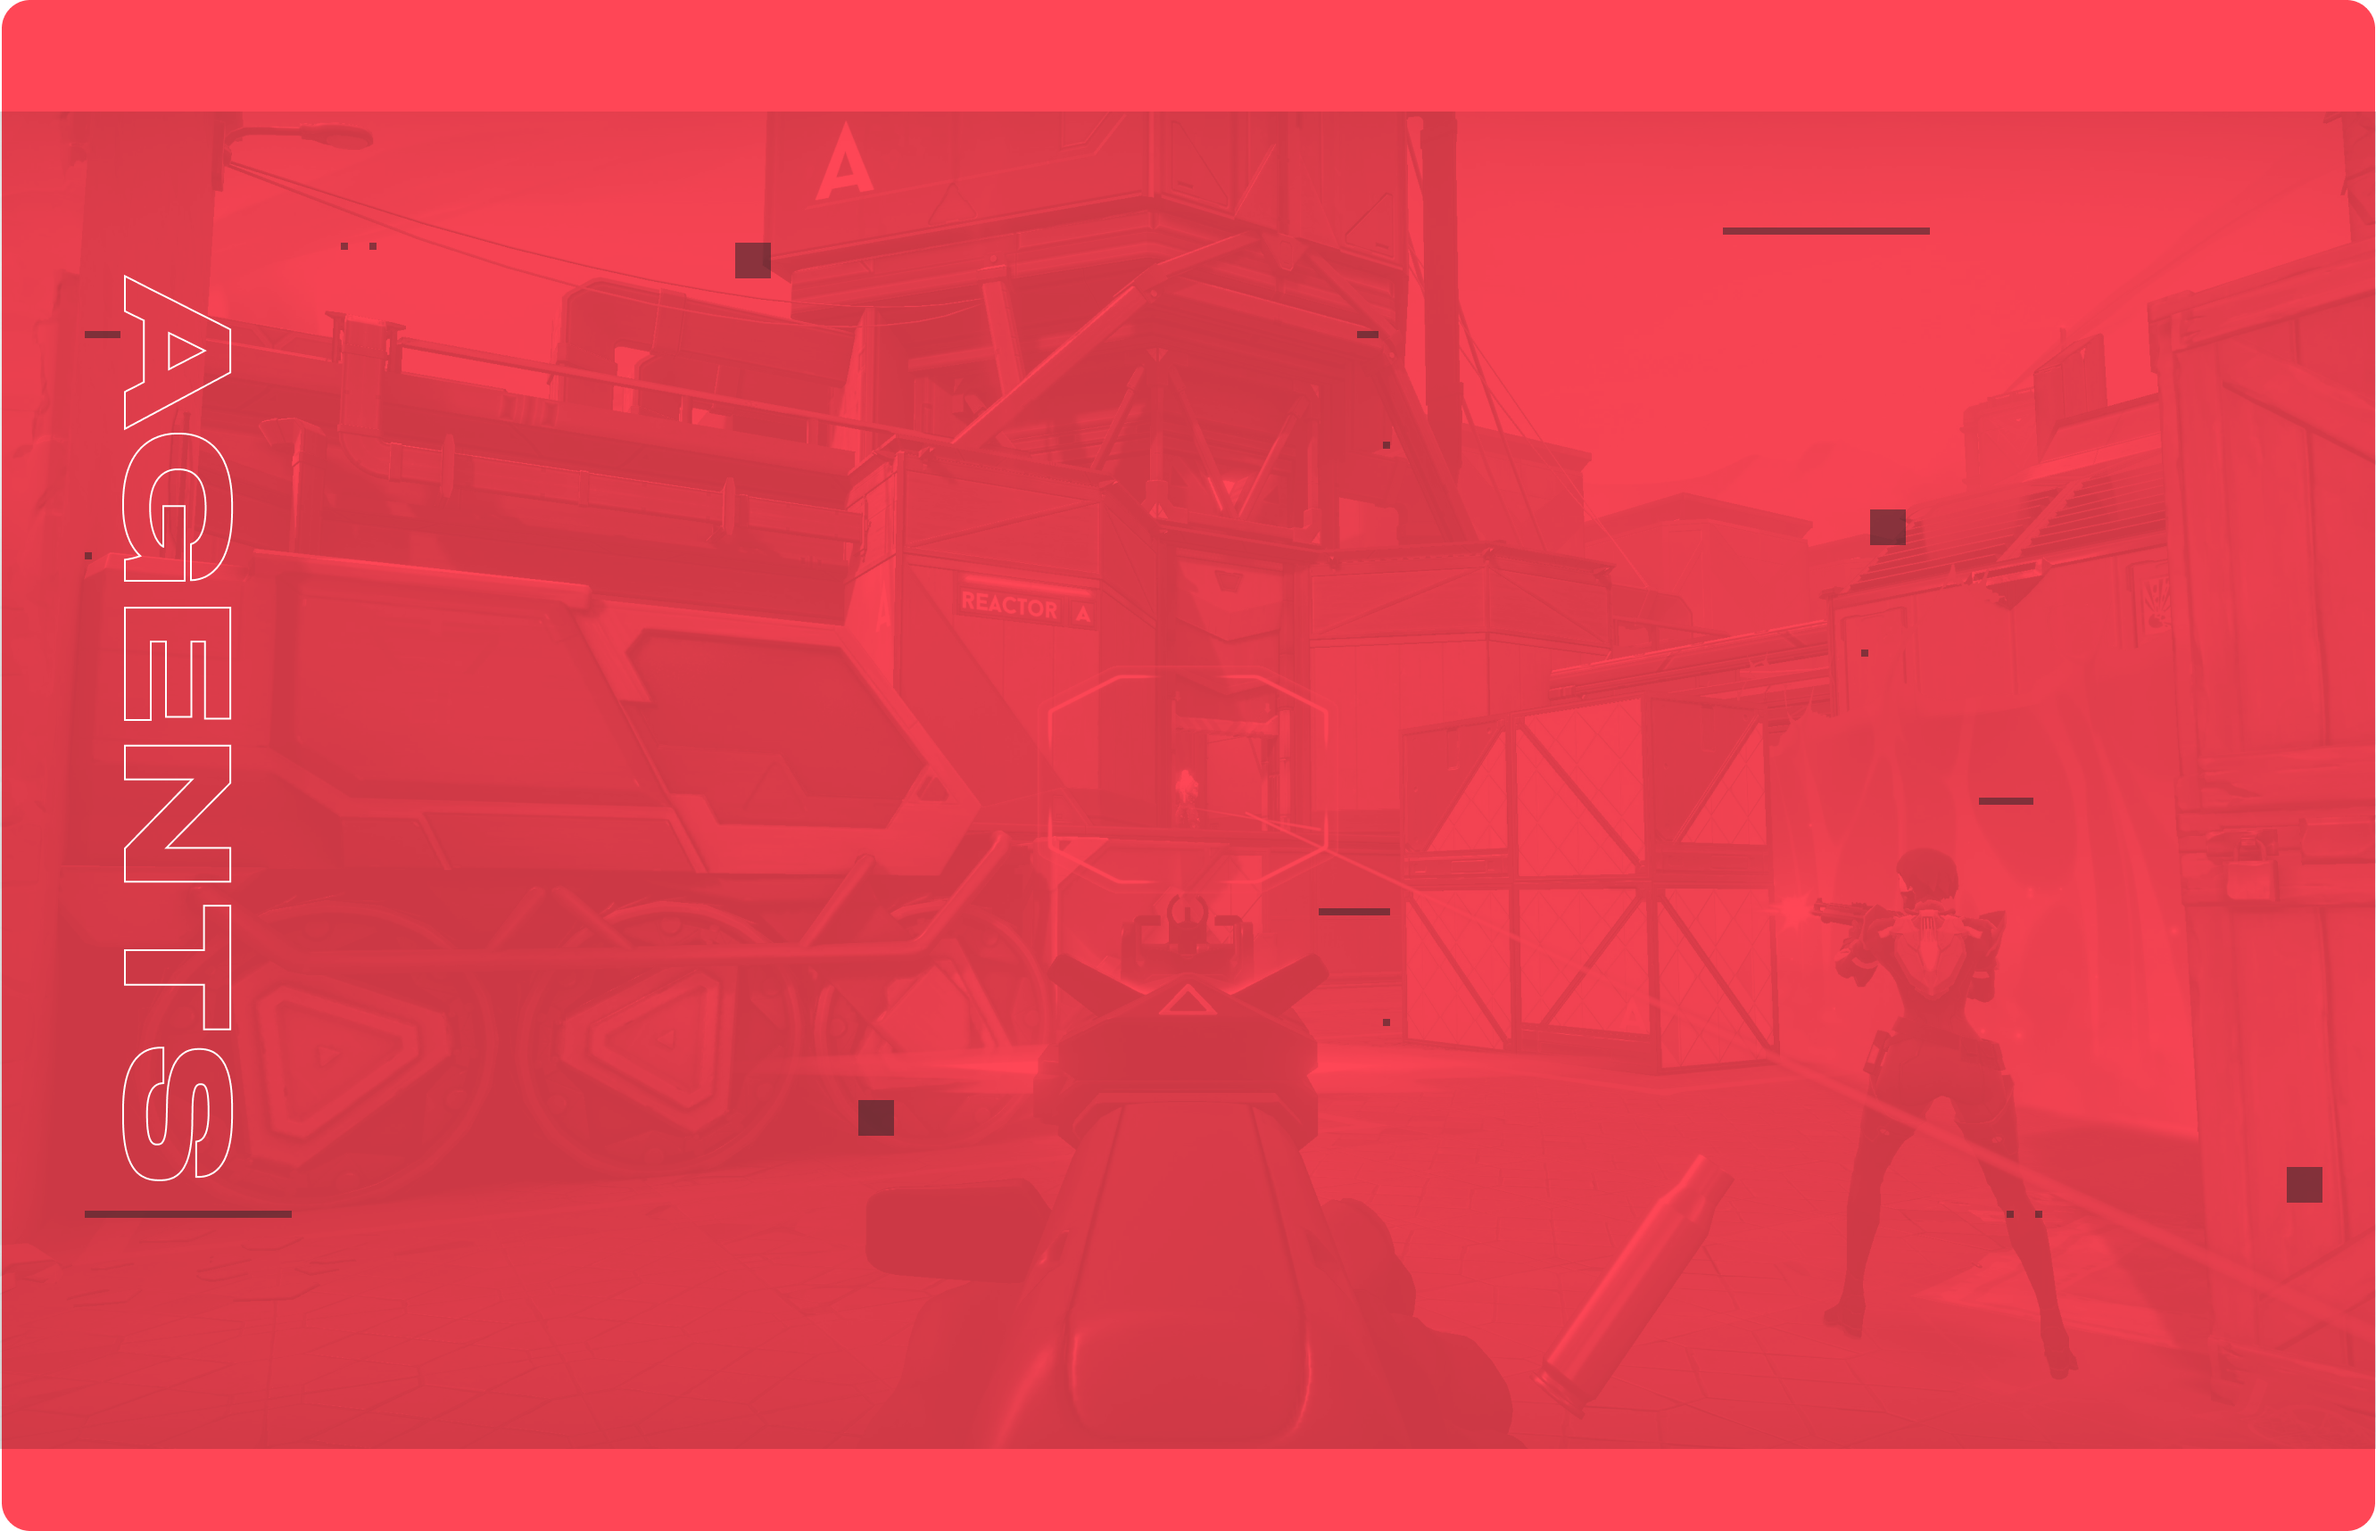
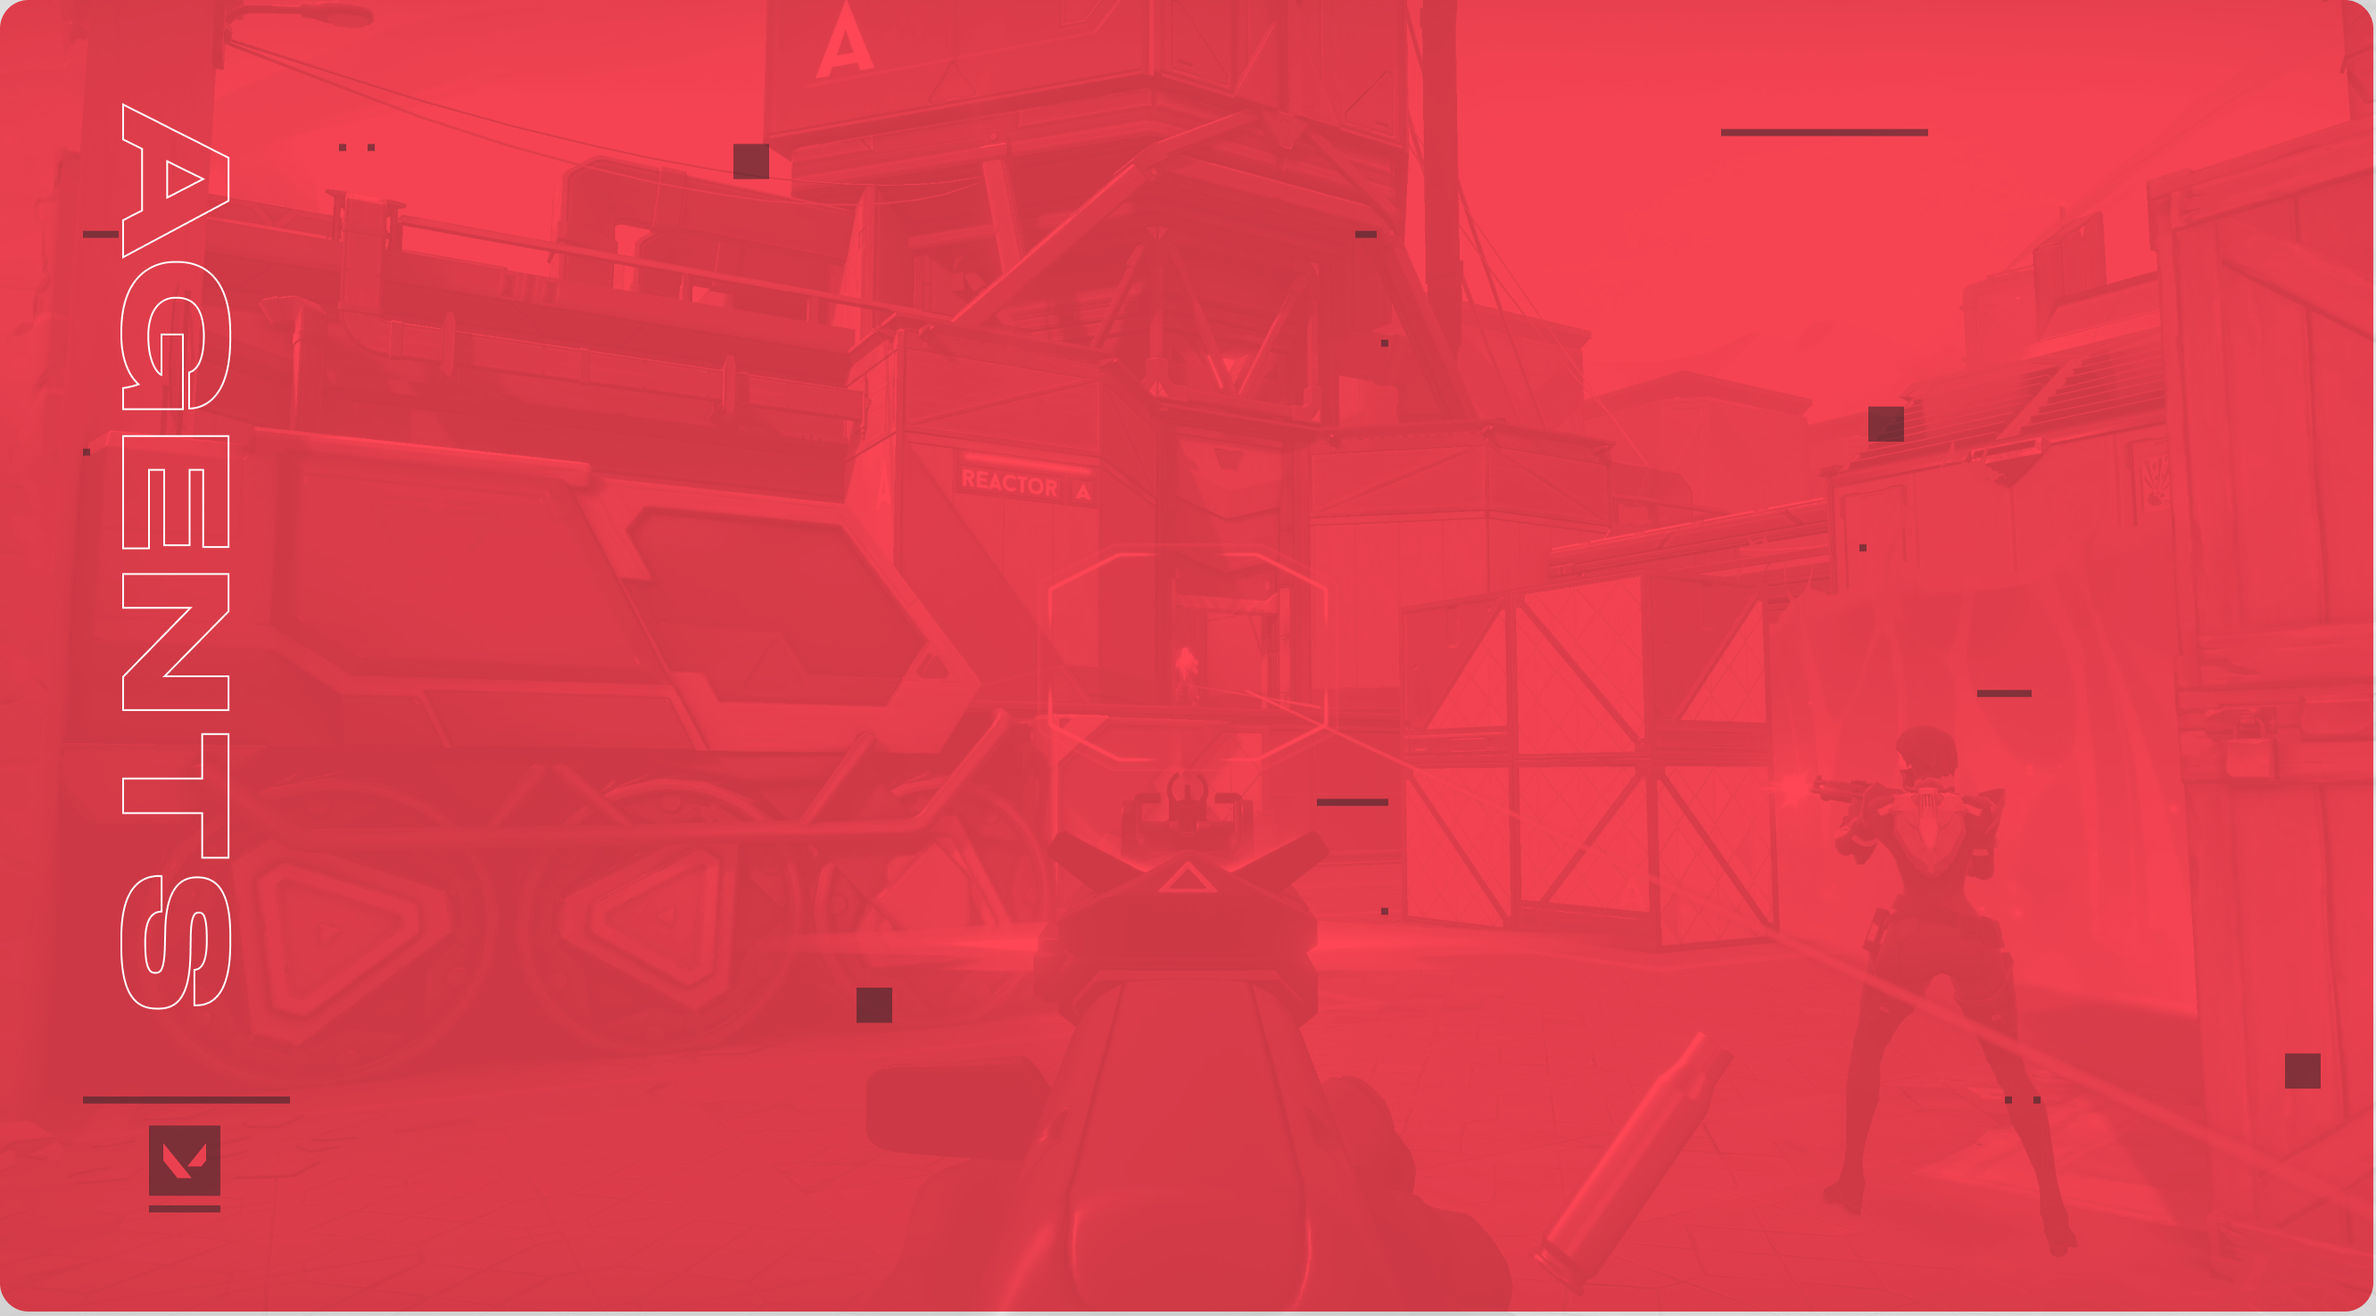
atualizando pagina agents
atualizando layout e adicionado querys de responsividade

diff --git a/valorant--page/assets/css/styles/agents.css b/valorant--page/assets/css/styles/agents.css
@@ -1,55 +1,195 @@
+main {
+    background-image: url("/valorant--page/assets/img/Agents/Background.png");
+    background-repeat: no-repeat;
+    background-position: top;
+    background-size: cover;
+    background-color: var(--cor-primaria);
+    
+}
+
 .agentes {
-    margin: 2rem;
     display: flex;
+    flex-wrap: wrap;
     justify-content: flex-end;
-    padding-bottom: 8.5rem;
+    padding: 7rem 2rem 5.5rem 2rem;
+    gap: 1rem;
 }
 
 .agentes__card {
-    margin: 5.5rem 1rem 1rem 1rem;
+    margin: 1rem 1rem 2rem 1rem;
+    display: flex;
+    flex-direction: column;
+    justify-content: center;
 }
 
 .agentes__card:hover {
-    width: 19.75rem;
+    box-shadow: 2px 2px 0px rgba(0, 0, 0, 0.1);
 }
 
 .agentes__card--img {
-    background-position: top;
-    background-size: cover;
+    width: 260px;
+    height: 526px;
+    background-size: contain;
     background-repeat: no-repeat;
-    width: 16.7rem;
-    height: 35rem;
+}
+
+.card__jett,
+.card__sage {
+    background-color: var(--cor-secundaria);
+}
+
+.card__phoenix,
+.card__sova {
+    background-color: var(--branco);
+}
+
+.card__phoenix:hover {
+    background-color: var(--cor-secundaria);
+}
+
+.card__jett:hover {
+    background-color: #D9D9D9;
+}
+
+.card__sova:hover {
+    background-color: var(--cor-secundaria);
+}
+
+.card__sage:hover {
+    background-color: #D9D9D9;
 }
 
 
 .agentes__card--img-phoenix {
-    background-image: url("/valorant--page/assets/img/Agents/phoenix-card/Phoenix.png");
+    background-image: url("/valorant--page/assets/img/Agents/phoenix-card/player.png");
 }
 
 .agentes__card--img-jett {
-    background-image: url("/valorant--page/assets/img/Agents/jet-card/Jett.png");
+    background-image: url("/valorant--page/assets/img/Agents/jet-card/player.png");
 }
 
 .agentes__card--img-sova {
-    background-image: url("/valorant--page/assets/img/Agents/sova-card/Sova.png");
+    background-image: url("/valorant--page/assets/img/Agents/sova-card/player\ \(1\).png");
 }
 
 .agentes__card--img-sage {
-    background-image: url("/valorant--page/assets/img/Agents/sage-card/sage.png");
+    background-image: url("/valorant--page/assets/img/Agents/sage-card/player.png");
+}
+
+.agentes__card--skills-a {
+    background-color: var(--branco);
+    border: 1px solid var(--cor-secundaria);
+    padding: 0.7rem 0;
+}
+
+.agentes__card--skills-b {
+    background-color: var(--cor-secundaria);
+    border: 1px solid var(--branco);
+    padding: 0.7rem 0;
+}
+
+.agentes__card--skills-a:hover {
+    background-color: var(--cor-secundaria);
+    border: 1px solid var(--branco);
+}
+
+.agentes__card--skills-b:hover {
+    background-color: var(--branco);
+    border: 1px solid var(--cor-secundaria);
 }
 
 .agentes__skill {
-    padding: 0.2rem;
-    width: 2rem;
-    height: 2rem;
+    padding: 1.3rem ;
+    background-position: center;
+    background-size: contain;
+    background-repeat: no-repeat;
 }
 
-.agentes__card--skills {
-    display: flex;
-    justify-content: space-between;
-    background-color: var(--cor-secundaria);
-    border: 1px solid var(--branco);
-    padding: 0.5rem;
-    width: 14.4rem;
-    margin-left: 1.2rem;
+.phoenix__skills {
+    background-image: url("/valorant--page/assets/img/Agents/phoenix-card/Abilities.png");
+}
+
+.phoenix__skills:hover {
+    background-image: url("/valorant--page/assets/img/Agents/phoenix-card/Abilities\ 2.png");
+}
+
+.jett__skills {
+    background-image: url("/valorant--page/assets/img/Agents/jet-card/Abilities.png");
+}
+
+.sova__skills {
+    background-image: url("/valorant--page/assets/img/Agents/sova-card/Abilities.png");
+}
+
+.sova__skills:hover {
+    background-image: url("/valorant--page/assets/img/Agents/sova-card/Abilities\ 2.png");
+}
+
+.sage__skills {
+    background-image: url("/valorant--page/assets/img/Agents/sage-card/Abilities.png");
+}
+
+@media screen and (max-width: 1024px) {
+
+    .agentes {
+        flex-wrap: wrap;
+    }
+
+    .agentes__card {
+        margin-top: 5rem;
+    }
+
+    .agentes__card--img {
+        width: 155px;
+        height: 316px;
+    }
+}
+
+@media screen and (min-width: 1025px) {
+    main {
+        background-image: url("/valorant--page/assets/img/Agents/background\ 2.png");
+    }
+
+    .agentes {
+        padding: 10rem 3rem 8rem 3rem;
+        justify-content: center;
+        align-items: center;
+    }
+
+    .agentes__card--img {
+        display: flex;
+        justify-content: center;
+        align-items: center;
+        width: 16vw;
+        height: 46vh;
+    }
+
+}
+
+@media screen and (min-width: 1440px) {
+    .agentes__card--img {
+        width: 250px;
+        height: 526px;
+    }
+}
+
+@media screen and (min-width: 1920px) {
+    body {
+        background-repeat: repeat;
+    }
+
+    .agentes {
+        flex-wrap: wrap;
+    }
+
+    .agentes__card {
+        margin-top: 6rem;
+        margin-bottom: 5rem
+    }
+
+    .agentes__card--img {
+        width: 340px;
+        height: 705px;
+    }
+
 }

diff --git a/valorant--page/index.html b/valorant--page/index.html
@@ -42,47 +42,36 @@
             <a href="#">
                 <div class="agentes__card card__phoenix">
                     <div class="agentes__card--img-phoenix agentes__card--img"></div>
-                    <div class="agentes__card--skills phoenix__skills">
-                        <img src="assets/img/Agents/phoenix-card/phoenix-skill-1.svg" alt="" class="agentes__skill">
-                        <img src="assets/img/Agents/phoenix-card/phoenix-skill-2.svg" alt="" class="agentes__skill">
-                        <img src="assets/img/Agents/phoenix-card/phoenix-skill-3.svg" alt="" class="agentes__skill">
-                        <img src="assets/img/Agents/phoenix-card/phoenix-skill-4.svg" alt="" class="agentes__skill">
+                    <div class="agentes__card--skills-b">
+                        <div class="agentes__skill phoenix__skills"></div>
                     </div>
                 </div>
             </a>
             <a href="#">
                 <div class="agentes__card card__jett">
                     <div class="agentes__card--img-jett agentes__card--img"></div>
-                    <div class="agentes__card--skills jett__skills">
-                        <img src="assets/img/Agents/jet-card/jet-skill-1.svg" alt="" class="agentes__skill">
-                        <img src="assets/img/Agents/jet-card/jet-skill-2.svg" alt="" class="agentes__skill">
-                        <img src="assets/img/Agents/jet-card/jet-skill-3.svg" alt="" class="agentes__skill">
-                        <img src="assets/img/Agents/jet-card/jet-skill-4.svg" alt="" class="agentes__skill">
-                    </div>
+                    <div class="agentes__card--skills-a">
+                        <div class="agentes__skill jett__skills"></div>
+                    </div>   
                 </div>
             </a>
             <a href="#">
                 <div class="agentes__card card__sova">
                     <div class="agentes__card--img-sova agentes__card--img"></div>
-                    <div class="agentes__card--skills sova__skills">
-                        <img src="assets/img/Agents/sova-card/sova-skill-1.svg" alt="" class="agentes__skill">
-                        <img src="assets/img/Agents/sova-card/sova-skill-2.svg" alt="" class="agentes__skill">
-                        <img src="assets/img/Agents/sova-card/sova-skill-3.svg" alt="" class="agentes__skill">
-                        <img src="assets/img/Agents/sova-card/sova-skill-4.svg" alt="" class="agentes__skill">
+                    <div class="agentes__card--skills-b">
+                        <div class="agentes__skill sova__skills"></div>
                     </div>
                 </div>
             </a>
             <a href="#">
                 <div class="agentes__card card__sage">
                     <div class="agentes__card--img-sage agentes__card--img"></div>
-                    <div class="agentes__card--skills sage__skills">
-                        <img src="assets/img/Agents/sage-card/sage-skill-1.svg" alt="" class="agentes__skill">
-                        <img src="assets/img/Agents/sage-card/sage-skill-2.svg" alt="" class="agentes__skill">
-                        <img src="assets/img/Agents/sage-card/sage-skill-3.svg" alt="" class="agentes__skill">
-                        <img src="assets/img/Agents/sage-card/sage-skill-4.svg" alt="" class="agentes__skill">
+                    <div class="agentes__card--skills-a">
+                        <div class="agentes__skill sage__skills"></div>
                     </div>
                 </div>
             </a>
+            
         </section>
     </main>
 

diff --git a/valorant--page/assets/css/styles.css b/valorant--page/assets/css/styles.css
@@ -18,11 +18,13 @@ body {
     font-size: 14px;
     font-weight: 400;
     color: var(--preto);
-    background-image: url("/valorant--page/assets/img/Agents/Background.png");
-    background-repeat: no-repeat;
-    background-position: top;
-    background-size: contain;
-    background-color: var(--cor-primaria);
+    background-color: var(--cor-secundaria);
+}
+
+@media screen and (max-width: 1024px) {
+    body {
+        background-repeat: repeat-y;
+    }
 }
 
 /*=========Cabeçalho=========*/
@@ -32,7 +34,7 @@ body {
     color: var(--branco);
     display: flex;
     align-items: center;
-   
+   padding: 0.5rem;
 }
 
 .cabecalho__logo {
@@ -105,6 +107,6 @@ body {
 /*=========Cabeçalho=========*/
 
 .rodape {
-    padding: 2rem;
+    padding: 2.5rem;
     background-color: var(--cor-secundaria);
 }
